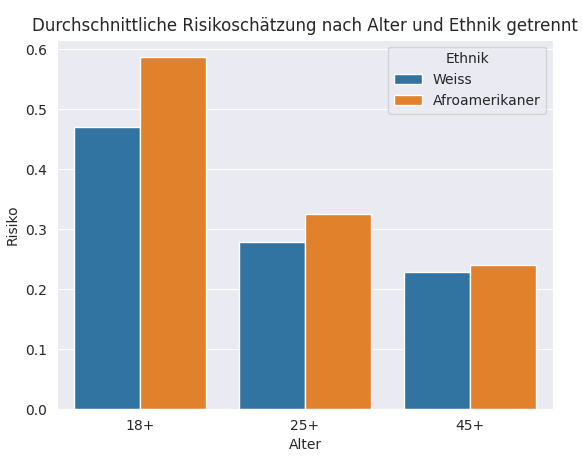
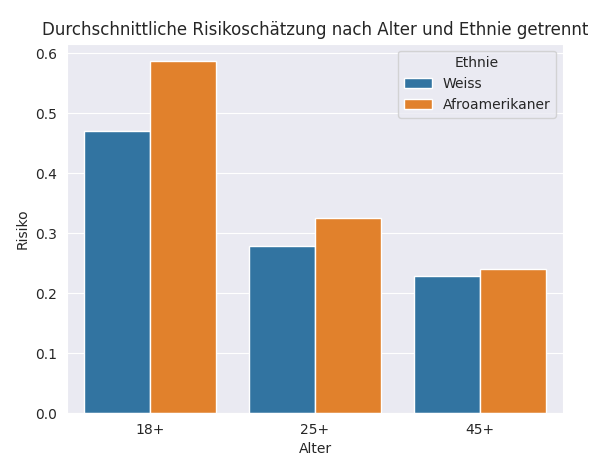
fixed typos in graphs

diff --git a/graph.py b/graph.py
@@ -7,14 +7,14 @@ import seaborn as sns
 d = {'Model': [
         'Baseline',
         'Baseline',
-        'Ohne Ethnik',
-        'Ohne Ethnik',
+        'Ohne Ethnie',
+        'Ohne Ethnie',
         'Ohne Geschlecht ',
         'Ohne Geschlecht ',
         'Künstlich ergänzte Daten',
         'Künstlich ergänzte Daten'
     ],
-    'Metric': [
+    'Metrik': [
         'Accuracy',
         'Recall',
         'Accuracy',
@@ -39,23 +39,22 @@ d = {'Model': [
 df = pd.DataFrame(data=d)
 
 
-plt.figure(figsize=(10,6))
-# ax = sns.barplot(data=df, x='Value', y='Model', hue="Metric", orient='h').set(title='Übersicht Metriken COMPAS')
-ax = sns.barplot(data=df, x='Model', y='Value', hue="Metric", orient='v').set(title='Übersicht Metriken COMPAS')
+#plt.figure(figsize=(10,6))
+#ax = sns.barplot(data=df, x='Model', y='Value', hue="Metrik", orient='v').set(title='Übersicht Metriken COMPAS')
 #plt.ylabel('Modell', rotation=90)
-plt.show()
+#plt.show()
 
 
 
 d = {'Model': [
         'Baseline',
         'Baseline',
-        'Ohne Ethnik',
-        'Ohne Ethnik',
+        'Ohne Ethnie',
+        'Ohne Ethnie',
         'Künstlich ergänzte Daten',
         'Künstlich ergänzte Daten'
     ],
-    'Metric': [
+    'Metrik': [
         'Accuracy',
         'Recall',
         'Accuracy',
@@ -76,8 +75,7 @@ d = {'Model': [
 df = pd.DataFrame(data=d)
 
 plt.figure(figsize=(10,6))
-ax = sns.barplot(data=df, x='Model', y='Value', hue="Metric", orient='v').set(title='Übersicht Metriken Kreditausfälle')
-#plt.ylabel('Modell', rotation=90)
+ax = sns.barplot(data=df, x='Model', y='Value', hue="Metrik", orient='v').set(title='Übersicht Metriken Kreditausfälle')
 plt.show()
 
 
